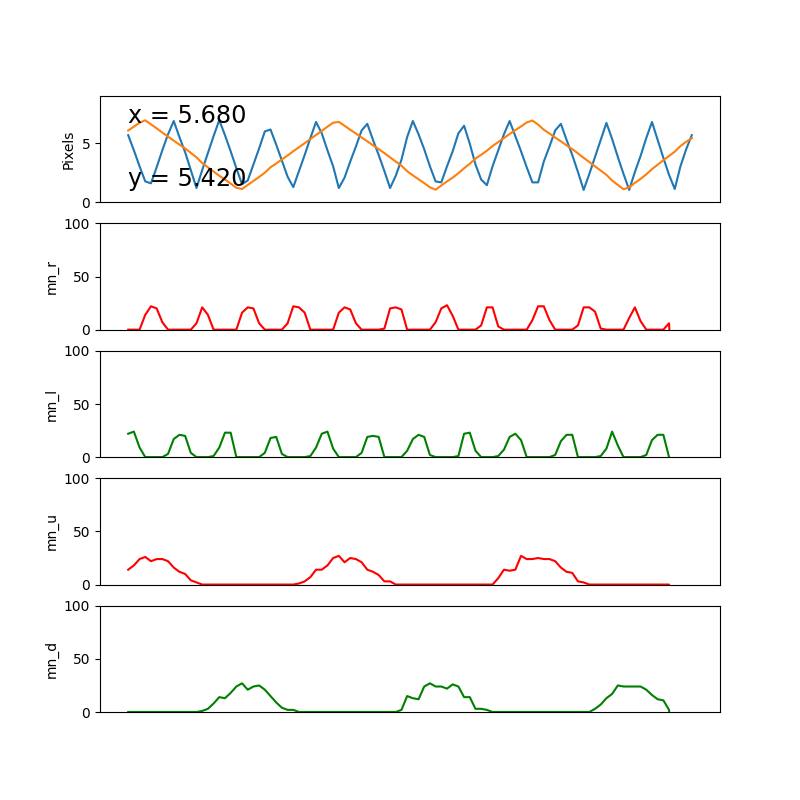
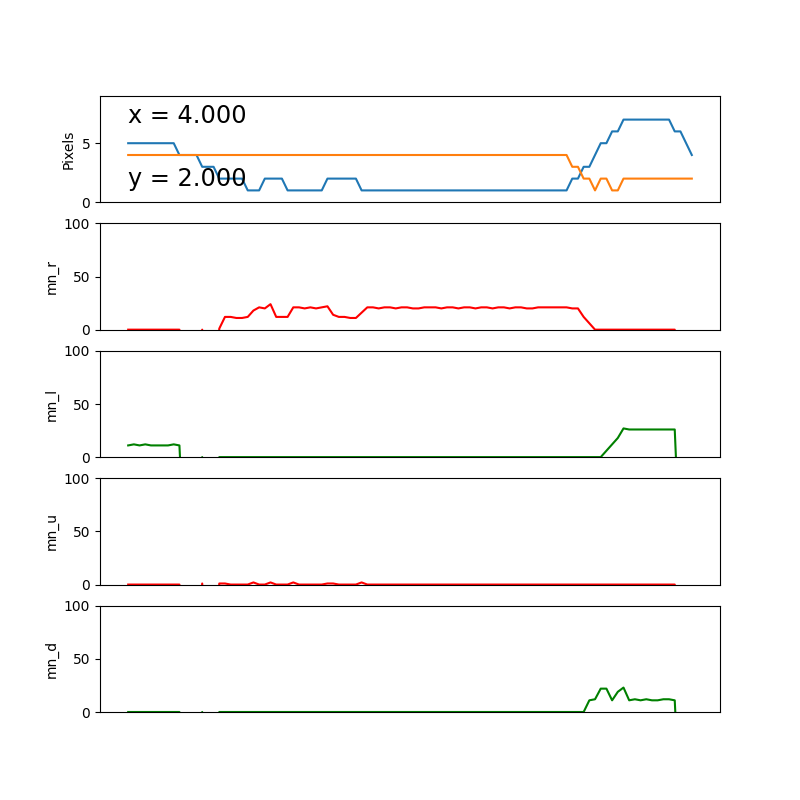
Using pygame

diff --git a/experiments/closed_loop/new_online_vor.py b/experiments/closed_loop/new_online_vor.py
@@ -301,8 +301,8 @@ def run_spinnaker_sim():
 
 
     # Run the simulation for long enough for packets to be sent
-    p.run(RUN_TIME)
-    # p.external_devices.run_forever(sync_time=0)
+    # p.run(RUN_TIME)
+    p.external_devices.run_forever(sync_time=0)
 
     # Let other processes know that spinnaker simulation has come to an ned
     end_of_sim.value = 1
@@ -316,7 +316,7 @@ def run_spinnaker_sim():
 
 def set_inputs():
 
-    global end_of_sim, input_q, object_q
+    global end_of_sim, input_q, object_q, control_q
 
     dt = 1 #ms
     l = WIDTH
@@ -360,12 +360,24 @@ def set_inputs():
 
         if ball_update >= 1000/fps:
             ball_update = 0      
-            bball.update_c(True)
+            dx = 0
+            dy = 0
+            while not control_q.empty():
+                command = control_q.get(False)
+                if command == 'up':
+                    dy = 1   
+                if command == 'down':
+                    dy = -1   
+                if command == 'left':
+                    dx = -1
+                if command == 'right':
+                    dx = 1
+            bball.update_c(False, dx, dy)
 
 
             # im_final = cv2.resize(mat*255,(640,480), interpolation = cv2.INTER_NEAREST)
-            cv2.imshow("Pixel Space", mat*255)
-            cv2.waitKey(1) 
+            # cv2.imshow("Pixel Space", mat*255)
+            # cv2.waitKey(1) 
         
 
         coor = [bball.cx, bball.cy]
@@ -549,28 +561,65 @@ def oscilloscope():
 
 if __name__ == '__main__':
 
-    global end_of_sim, input_q, output_q, spike_q, object_q
+    global end_of_sim, input_q, output_q, spike_q, object_q, control_q
     
 
     manager = multiprocessing.Manager()
 
     end_of_sim = manager.Value('i', 0)
-    input_q = multiprocessing.Queue()
-    output_q = multiprocessing.Queue()
-    spike_q = multiprocessing.Queue()
-    object_q = multiprocessing.Queue()
+    input_q = multiprocessing.Queue() # events
+    control_q = multiprocessing.Queue() # commands
+    output_q = multiprocessing.Queue() # events
+    spike_q = multiprocessing.Queue() # signals
+    object_q = multiprocessing.Queue() # visualization
 
 
 
 
     p_o_data = multiprocessing.Process(target=get_outputs, args=())
     p_visual = multiprocessing.Process(target=oscilloscope, args=())
+    p_spiNN = multiprocessing.Process(target=run_spinnaker_sim, args=())
     
 
     p_o_data.start()
     p_visual.start()
+    p_spiNN.start()
 
-    run_spinnaker_sim()
+    # run_spinnaker_sim()
 
+    import pygame
+    from pygame.locals import *
+    import sys
+
+
+    pygame.init()
+    display = pygame.display.set_mode((300, 300))
+    
+    while True:
+
+        if end_of_sim.value == 1:
+            time.sleep(1)
+            print("No more commands to be executed.")
+            break
+
+        for event in pygame.event.get():
+            if event.type == QUIT:
+                pygame.quit()
+                sys.exit()
+            if event.type == pygame.KEYDOWN:
+                if event.key == pygame.K_w:
+                    print(u"\u2191")
+                    control_q.put('up')
+                if event.key == pygame.K_s:
+                    print(u"\u2193")
+                    control_q.put('down')
+                if event.key == pygame.K_a:
+                    print(u"\u2190")
+                    control_q.put('left')
+                if event.key == pygame.K_d:
+                    print(u"\u2192")
+                    control_q.put('right')
+
+    p_spiNN.join()
     p_o_data.join()
     p_visual.join()

diff --git a/miscelaneous/stimulator.py b/miscelaneous/stimulator.py
@@ -23,12 +23,16 @@ class BouncingBall:
     self.vx = vx
     self.vy = vy
 
-  def update_c(self):
+  def update_c(self, autom, dx=0, dy=0):
 
     marg = 1
 
-    next_cx = self.cx+self.vx*self.dt
-    next_cy = self.cy+self.vy*self.dt
+    if autom == True:
+        next_cx = self.cx+self.vx*self.dt
+        next_cy = self.cy+self.vy*self.dt
+    else:
+        next_cx = self.cx + dx
+        next_cy = self.cy + dy
     # print("nxt_center: ({:.3f}, {:.3f})".format(next_cx, next_cy))
     if self.l-self.r-marg < next_cx:
         # print("Right edge")
@@ -131,7 +135,7 @@ def produce_data(l, w, r, vx, vy, duration):
 
         if ball_update >= 1000/fps:
             ball_update = 0      
-            bball.update_c()
+            bball.update_c(True)
             # print("\r{:.1f} %".format(np.round(t/(duration*1000),3)*100), end="")
 
             try:

diff --git a/experiments/closed_loop/toto.py b/experiments/closed_loop/toto.py
@@ -1,0 +1,18 @@
+import pygame
+from pygame.locals import *
+import sys
+ 
+pygame.init()
+display = pygame.display.set_mode((300, 300))
+ 
+while 1:
+    for event in pygame.event.get():
+        if event.type == QUIT:
+            pygame.quit()
+            sys.exit()
+        if event.type == pygame.KEYDOWN:
+            if event.key == pygame.K_a:
+                print("Key A has been pressed")
+        if event.type == pygame.KEYUP:
+            if event.key == pygame.K_a:
+                print("Key A has been released")
